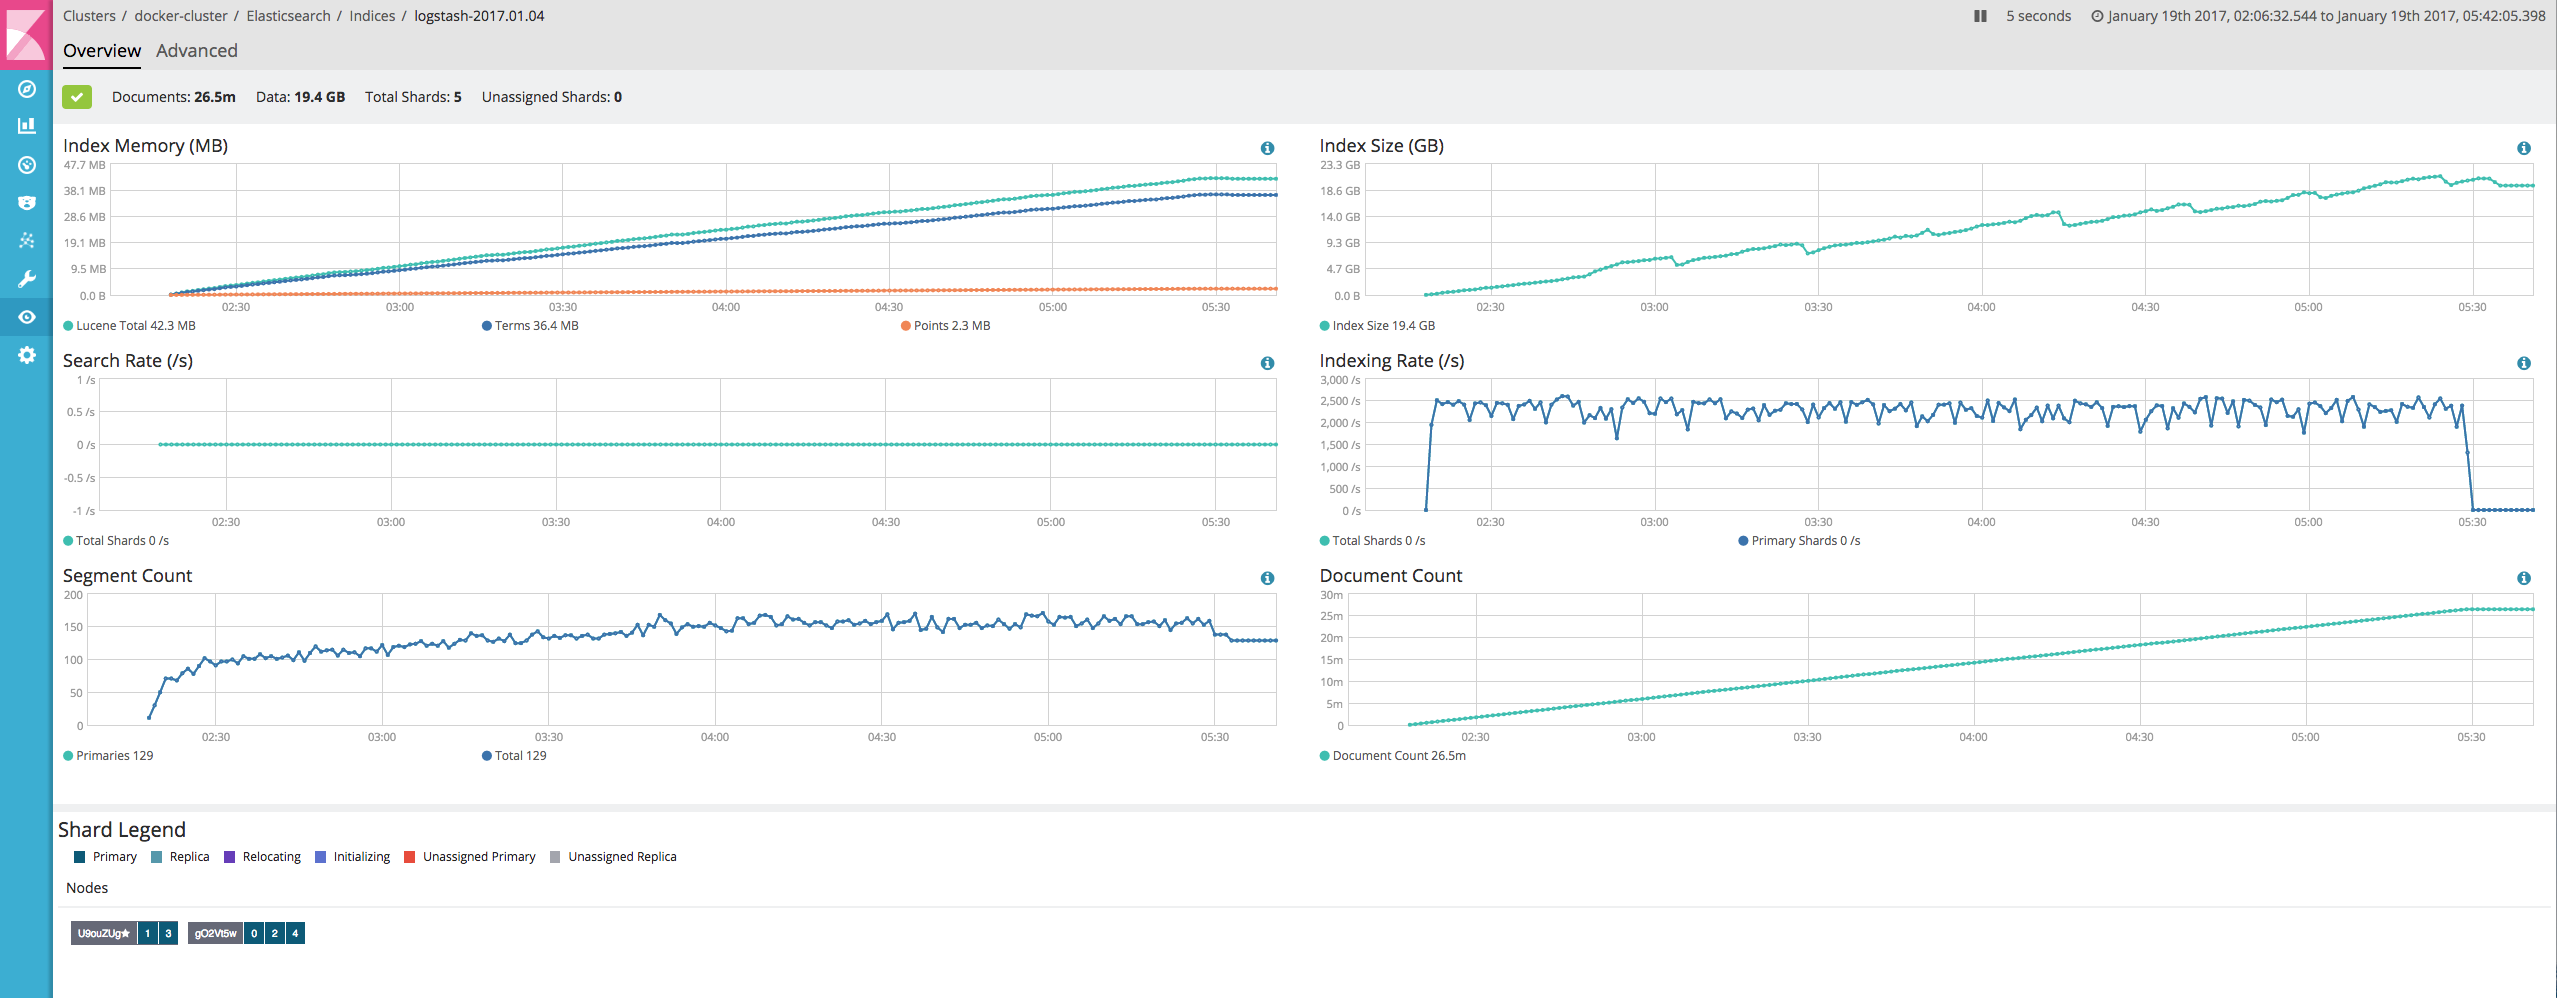
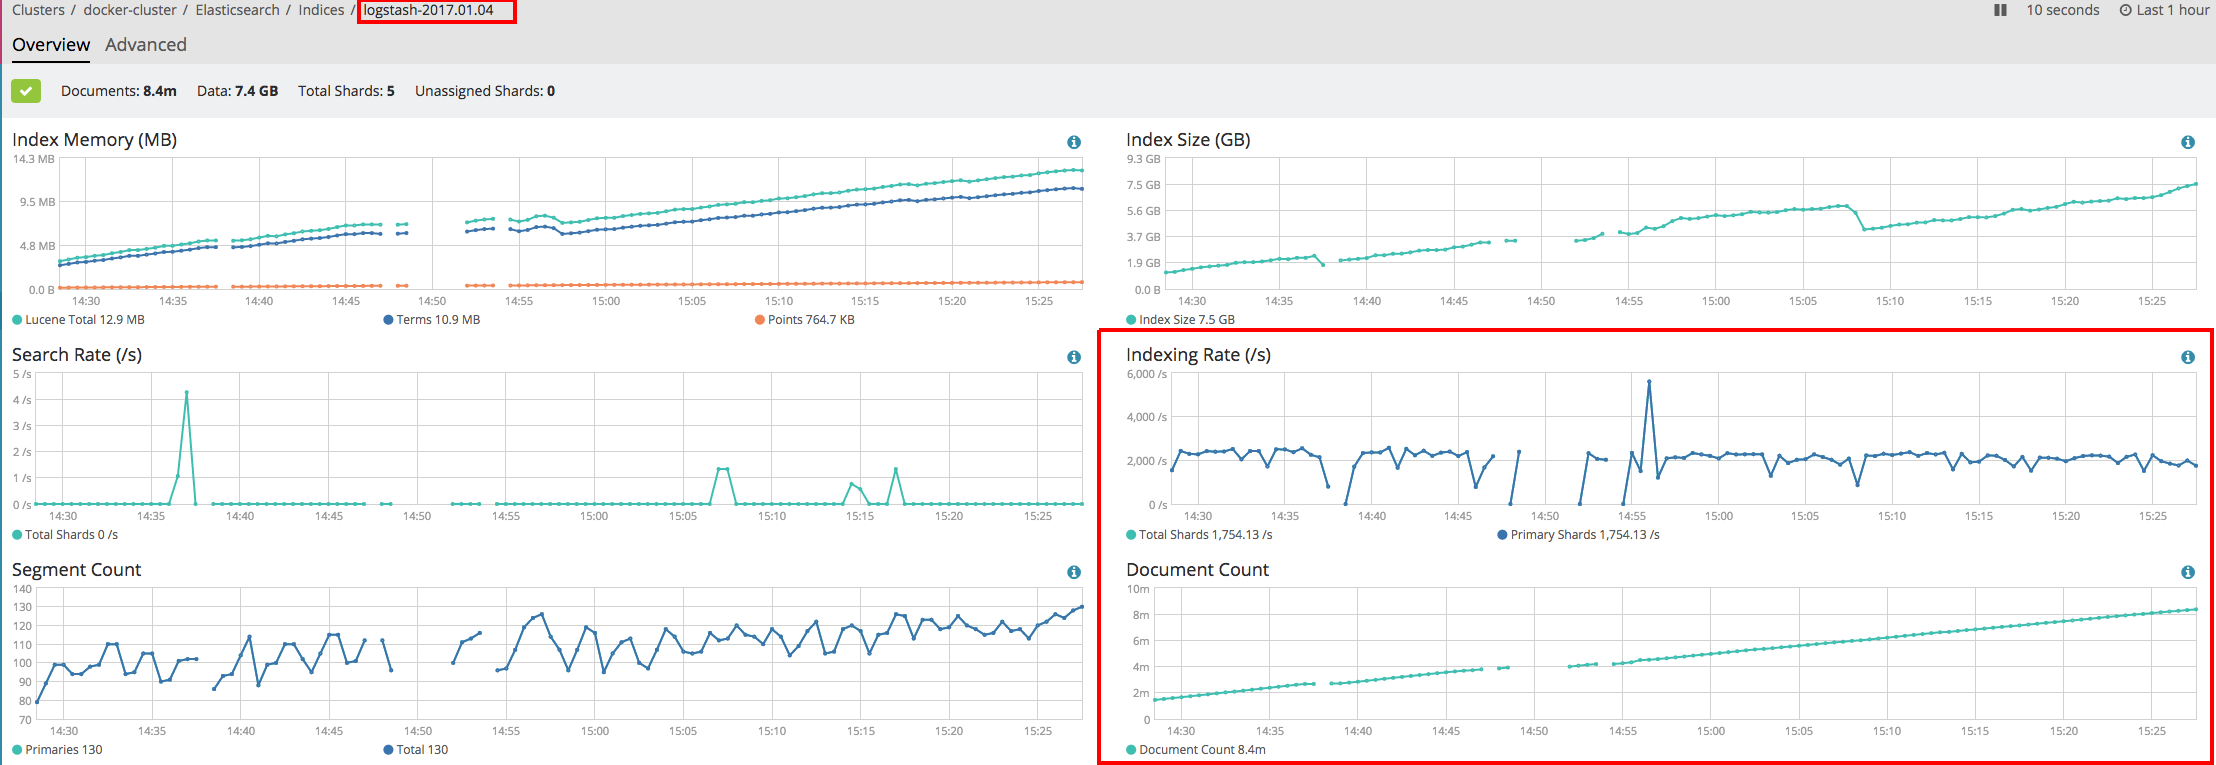
Spruce up docs:  * Make docs easier to follow if you're new to ElasticSearch/ELK  * Add image showing how to know what your indexer is doing  * Add image showing how to select a different time range  * Add a link to a default dashboard of the last 30 days that people can just click on.

diff --git a/README.md b/README.md
@@ -12,6 +12,8 @@ Using the `docker-compose.yml` you can spin up a set of Docker images to analyze
 
 ## Awesome, how do I use it?
 
+You don't even need to get this repo to use it - only the [docker-compose.yml](docker-compose.yml) file. Want to build your own image and hack around? Grab the repo.
+
 Run it:
 
 ```bash
@@ -22,7 +24,17 @@ wget https://raw.githubusercontent.com/8x8Cloud/logstash-in-a-box/5.x/docker-com
 docker-compose -f docker-compose.yml up -d
 ```
 
-You don't even need to get this repo to use it - only the [docker-compose.yml](docker-compose.yml) file. Want to build your own image and hack around? Grab the repo.
+Give Logstash some time to index your logs, then go <a href="http://localhost:5601/app/kibana#/dashboard/Load-Result-Dashboard?_g=(refreshInterval:(display:Off,pause:!f,value:0),time:(from:now-30d,mode:quick,to:now))&_a=(filters:!(),options:(darkTheme:!f),panels:!((col:1,id:Total-Sample-Calls,panelIndex:1,row:1,size_x:3,size_y:2,type:visualization),(col:1,id:Verb-Breakdown,panelIndex:2,row:6,size_x:3,size_y:2,type:visualization),(col:1,id:Response-Code-Breakdown,panelIndex:3,row:3,size_x:3,size_y:3,type:visualization),(col:4,id:'Response-Time-Histogram-(per-minute)',panelIndex:4,row:1,size_x:9,size_y:4,type:visualization),(col:4,id:Requests-Per-Second,panelIndex:5,row:5,size_x:9,size_y:3,type:visualization),(col:1,id:'Max-Response-Time-(per-minute)',panelIndex:6,row:8,size_x:4,size_y:3,type:visualization),(col:5,id:'Min-Response-Time-(per-minute)',panelIndex:7,row:8,size_x:4,size_y:3,type:visualization),(col:9,id:'Average-Response-Time-(per-minute),-with-Standard-Deviation',panelIndex:8,row:8,size_x:4,size_y:3,type:visualization)),query:(query_string:(analyze_wildcard:!t,query:'*')),title:'Load%20Result%20Dashboad',uiState:(P-2:(vis:(params:(sort:(columnIndex:!n,direction:!n)))),P-3:(vis:(params:(sort:(columnIndex:!n,direction:!n))))))">here</a>. This will use a pre-configured dashboard for the past 30 days. If your data is older than 30 days, you can use the time picker in the upper right-hand corner of the dashboard:
+
+![Kibana Timepicker](https://raw.githubusercontent.com/8x8Cloud/logstash-in-a-box/5.x/docs/kibana-time-picker.png)
+
+## How do I know when it's done? Or what it's doing?
+
+This is what the [monitoring](http://localhost:5601/app/monitoring#/elasticsearch/indices) component does.
+
+Select one of the indices that has the word "logstash" in it, and watch both the indexing rate and document count. If this rate drops to zero and stays there a while, it's probably done indexing your logs.
+
+## When it's done running
 
 Once running, you can find your services at:
  * [Monitoring at http://localhost:5601/app/monitoring](http://localhost:5601/app/monitoring)
@@ -54,10 +66,6 @@ docker-compose -f docker-compose.yml -f docker-compose.config.yml up -d
 ```
 
 Maybe you have a fixed path, and want to know how many requests Customer X got instead of Customer Y. Maybe your request format is weird. Maybe you're a masochist. Who cares! Feel free to grab the [logstash.conf](https://raw.githubusercontent.com/8x8Cloud/logstash-in-a-box/5.x/app/logstash.conf) and [jetty-request-template.json](https://raw.githubusercontent.com/8x8Cloud/logstash-in-a-box/5.x/app/jetty-request-template.json) out of the `app` directory as a guide.
-
-Oh, it comes with Monitoring too, so you can know whether or not your indexing is still going:
-
-![Monitoring stats](https://raw.githubusercontent.com/8x8Cloud/logstash-in-a-box/5.x/docs/monitoring-screen.png)
 
 ## Other things of interest
 
